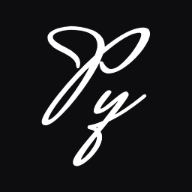
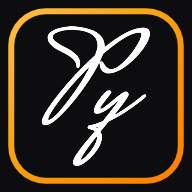
Иконка с оранжевым ободком — и у рабочего сайта и parsimony.ru, как на бете (кэш rem-v210)

diff --git a/sw.js b/sw.js
@@ -1,4 +1,4 @@
-const CACHE = 'rem-v209';
+const CACHE = 'rem-v210';
 const NUDGE_C = 'rem-nudge', NUDGE_URL = new URL('nudge', self.registration.scope).href;   // помощник пишет сам: текст пуша до открытия чата (aiNudgeOpen в assistant.js)
 const FILES = ['./', './index.html', './beta.html', './privacy.html', './consent.html', './terms.html', './manifest.json', './icon-180.png', './icon-192.png', './icon-512.png', './favicon.png',
   './css/fonts.css', './css/app.css', './css/sections.css', './css/ui2.css', './css/skins.css', './css/glass.css',

diff --git a/CLAUDE.md b/CLAUDE.md
@@ -67,7 +67,7 @@ PWA-календарь-планер **Parsimony** (название — конс
 - Тесты: `node tools/test-reminders.mjs` и `node tools/test-reminders-io.mjs` — перед каждым изменением функции `reminders` (первый сверяет её с `js/core.js`, второй — запросы к базе на 450 выдуманных людях: порции, страницы, только нужные поля); `node tools/test-assistant.mjs` — перед изменением функции `assistant`; `node tools/test-names.mjs` — недоступные имена; `node tools/test-admin.mjs` — перед изменением функции `admin` (кто может пользоваться, проверка полей, записи людей не читаются); `node tools/test-friends.mjs` — друзья, переписка и закрытая бета (с `PGLITE_DIR` — весь SQL в настоящем Postgres: ник на сервере как в приложении, каждый видит только своё, писать — только другу, бета — только админам и открытым); `node tools/test-coins.mjs` — ParsiCoins (каталог coins.sql = shop.js; с `PGLITE_DIR` — монеты не дописать, награда один раз, лимиты заданий, покупки, заморозка; без записей, по примеру и задним числом — нельзя; условия на сервере = в приложении на случайных записях); `node tools/test-signup.mjs` — перед изменением функции `signup` (закрыто — отказ, лимиты раньше капчи, капча раньше создания, почта не сохраняется). Перед выпуском — все тесты, `check-js`, поиск секретов в `main..dev`; команды выпуска — цепочкой через `&&`, не через `;` и не через `set -e` (в этой оболочке он не останавливает, проверено 1 ноября 2026).
 
 ## Бета и рабочая версия
-- **Рабочая** — https://app.parsimony.ru, ветка `main`, только по «выпускаем». **Бета** — https://beta.parsimony.ru, ветка `dev`: `bash tools/deploy-beta.sh` кладёт снимок `dev` одним коммитом (`push -f`) в репозиторий `greed1-alt/parsimony-beta`. Отличия беты: `CNAME` = `beta.parsimony.ru`, «Parsimony β» в `manifest.json`, без `tools/` и `docs/`, иконки из `tools/beta-icons/`, если папка есть (пробная «Py», как у рабочей, но с 23 ноября 2026 — с оранжевым ободком цвета полосы беты `#f59e0b`, чтобы на экране «Домой» бету не путать с рабочей).
+- **Рабочая** — https://app.parsimony.ru, ветка `main`, только по «выпускаем». **Бета** — https://beta.parsimony.ru, ветка `dev`: `bash tools/deploy-beta.sh` кладёт снимок `dev` одним коммитом (`push -f`) в репозиторий `greed1-alt/parsimony-beta`. Отличия беты: `CNAME` = `beta.parsimony.ru`, «Parsimony β» в `manifest.json`, без `tools/` и `docs/`, иконки из `tools/beta-icons/`, если папка есть (пробная «Py» с оранжевым ободком `#f59e0b` — с 23 ноября 2026 та же у всех сайтов: в корне те же файлы, у рабочей — с ближайшего выпуска).
 - На адресе `beta.*` (`IS_BETA` в `core.js`): значок «β» (`BETA_PILL`), янтарная полоса сверху, заголовок «Parsimony β» (`APP_TITLE`).
 - **Закрытая бета** (3 ноября 2026): на бете приложение открывается только после входа и только тем, кого пускает `beta_ok` — админы и `beta_access` (Админка → человек → «Открыть доступ к бете», действие `beta` функции `admin`); остальным — экран «Закрытая бета» (`betaStart` / `betaGate` / `betaLogin` в cloud.js; проверенный доступ — `remapp_beta`). Не прошёл после кода — выход без синхронизации. Поисковикам бету не показывают: `deploy-beta.sh` кладёт `robots.txt` и `noindex`.
 - **Сервер у беты и рабочей общий — свой, https://api.parsimony.ru** (с 6 ноября 2026; бета — с 5 ноября): адрес, publishable-ключ и открытый ключ уведомлений `VAPID_PUBLIC` (у нового сервера новая пара) — в `core.js`. Токен входа помнит свой сервер (`auth.srv`), чужой сразу обменивается по refresh-токену (сеансы перенесены); подписка устройства со старым ключом переподписывается молча (`pushKeyOk`, `pushSubFresh` в `notify.js`). У отзыва `meta.site` — откуда он отправлен.
